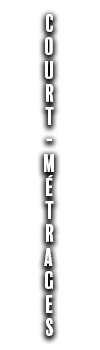
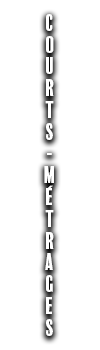
site-yami-v2

Changed region(s): [[0.39, 0.0286, 0.6, 0.9429]]

diff --git a/src/composants/apropos/Apropos.js b/src/composants/apropos/Apropos.js
@@ -44,13 +44,12 @@ export default class Apropos extends Component {
                     <p className='contact'>0675282090<br/>yamiquinton@hotmail.fr<br/>PARIS</p>
                     <span className={`separator-profil${this.state.BoutonClick? ' blur': ''}`}></span>
                     <p className='text'>    
-Grand adèpte des histoires et du dessin, j'étais généralement le dessinateur du fond de la classe.
-Adolescent, j'obtiens ma première caméra pour filmer des kickflips au skatepark. Je démarre le cadrage et le montage.
-Après le bac, je me lasse rapidement de la classe préparatoire économique aux grandes écoles. Je trouve une équipe et je commence à faire mes premiers court métrage.
-<br/>J'intègre plus tard une école de cinéma, directement admis en deuxième année grâce à mes acquis.
-Nouveau matériel en main, nouvelles compétences, je commence les prestations vidéo rémunérées.<br/><br/>
-
-Aujourd'hui j'écris, réalise, cadre et/ou monte différents projets tout en gardant la même passion qui me guidait au skatepark.
+Mon premier montage vidéo a été une compilation de descentes de rampe sur une luge improvisée avec des séparateurs de voie en plastique. <i>– 2012</i><br/>
+Quand je tombais au skatepark avec la caméra dans les mains elle s’en sortait toujours indemne, à l’instar de mes autres membres. <i>– 2013</i><br/> 
+J’ai tourné mon premier court métrage avec un micro perche éteint et sans script. <i>– 2014</i><br/>
+Le premier scénario que j’ai écrit devait aboutir à un court métrage de 20 minutes. Après une première version d’une heure et pas mal de cuts, j’avais un moyen métrage de 40 minutes apparemment « drôle et regardable ». <i>– 2016</i><br/>
+Faire un court métrage avec des enfants m’a fait comprendre pourquoi ils sont parfois meilleur acteur que les adultes. <i>– 2019</i><br/>
+Ma madeleine de Proust : « Le Château dans le ciel » d’Hayao Miyazaki.
                     </p>
                 </div>
             </div>

diff --git a/src/composants/court-metrages/CourtMetrages.js b/src/composants/court-metrages/CourtMetrages.js
@@ -66,7 +66,7 @@ export default class CourtMetrages extends Component {
                                             closeClick={this.handleVideo}
                                             id={this.state.activeVideo}
                                             /> : null}
-                    <h1 className={`titre-accueil${this.state.BoutonClick? ' blur': ''}`} >Court-métrages</h1>
+                    <h1 className={`titre-accueil${this.state.BoutonClick? ' blur': ''}`} >Courts-métrages</h1>
                     <span className={`separator${this.state.BoutonClick? ' blur': ''}`}></span>
                     <BoutonNav ClickOutside={this.handleClickOutside} Click={this.handleClick} Toggle={this.state.BoutonClick} />
                 </div>

diff --git a/src/composants/nav/Nav.js b/src/composants/nav/Nav.js
@@ -47,7 +47,7 @@ export default class Nav extends Component {
                                 animationDuration: this.state.animationActive === true ? '1500ms' : ''
                                 }}
                             >
-                            <Link to="/courtmetrages"><img className="nav-text" alt='cmt' src={CMt}/></Link>
+                            <Link to="/courtsmetrages"><img className="nav-text" alt='cmt' src={CMt}/></Link>
                         </div>
                         <div 
                             

diff --git a/src/App.js b/src/App.js
@@ -22,7 +22,7 @@ export default class App extends Component {
         <div className="container">
           <Switch>
             <Route exact path="/" component={Accueil} />
-            <ScrollToTopRoute path="/courtmetrages" component={CourtMetrages} />
+            <ScrollToTopRoute path="/courtsmetrages" component={CourtMetrages} />
             <ScrollToTopRoute path="/clips" component={Clips} />
             <ScrollToTopRoute path="/pubs" component={Pubs} />
             <ScrollToTopRoute path="/dessins" component={Dessins} />
